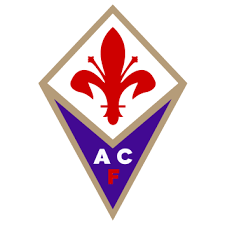
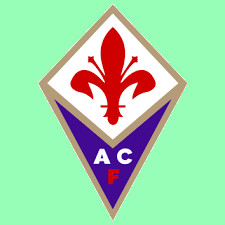
cAMBIOS

diff --git a/estilos/estilos.css b/estilos/estilos.css
@@ -1,5 +1,5 @@
 body{
-    background-color: rgb(178, 252, 178);
+    background-color: rgb(151, 254, 183);
 }
 table {
     border: rgb(79, 110, 101) 5px inset;
